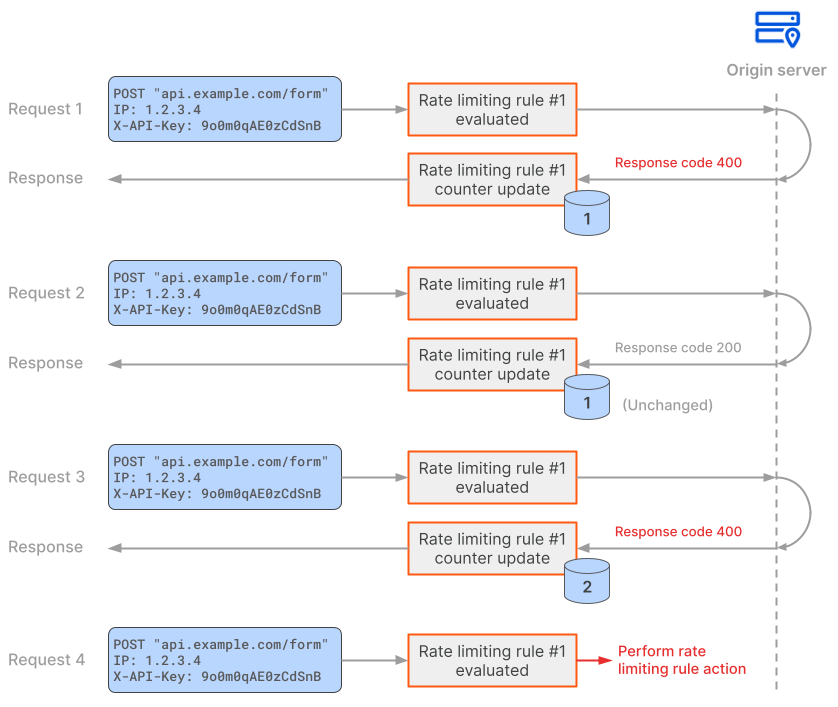
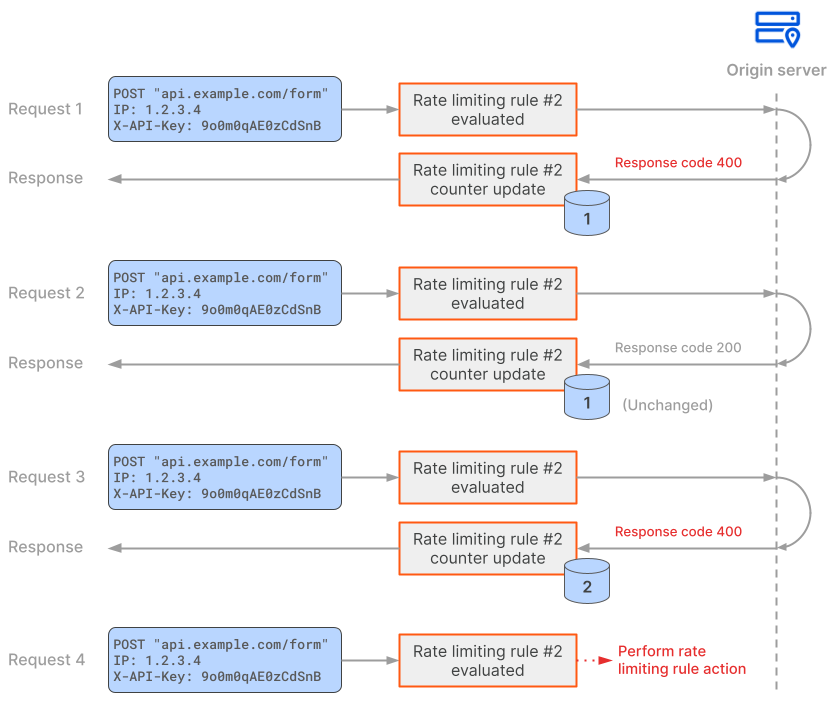
Adjust examples in request rate calc page

diff --git a/content/waf/rate-limiting-rules/request-rate.md b/content/waf/rate-limiting-rules/request-rate.md
@@ -71,7 +71,7 @@ Consider the following configuration for a rate limiting rule. The rule counting
 
 {{<example>}}
 
-_**Rate limiting rule #1**_
+_**Rate limiting rule #2**_
 
 **If incoming requests match**:<br/>
 `http.request.uri.path eq "/form"`
@@ -95,16 +95,14 @@ _**Rate limiting rule #1**_
 
 {{</example>}}
 
-The following diagram shows how Cloudflare handles four incoming requests received during a 10-second period in the context of the above rate limiting rule.
+The following diagram shows how Cloudflare handles these four incoming requests received during a 10-second period in the context of the above rate limiting rule.
 
 ![Example of a rate limiting rule using a response field in the counting expression](/waf/static/custom-rules/rate-limiting-example-response-field.png)
 
-All four requests have the same IP address and they all include the `X-API-Key` header. However, the rule includes a custom counting expression (defined in **Increment counter when**) specifying that the counter should increase when the response HTTP status code is `400`.
+Since request 1 matches the rule expression, the rate limiting rule is evaluated. The request is sent to the origin, skipping any cached content, because the rate limiting rule includes a response field (`http.response.code`) in the counting expression. The origin responds with a `400` status code. Since there is a match for the counting expression, Cloudflare creates a request counter for the values of the characteristics in the context of the rate limiting rule, and sets this counter to `1`.
 
-Since request 1 matches the rule expression, the rate limiting rule is evaluated. The request is sent to the origin, skipping any cached content, because the rate limiting rule includes a response field (`http.response.code`) in the counting expression — when this happens, the counter will only be updated when Cloudflare receives a response from the origin. The origin responds with a `400` status code. Since there is a match for the counting expression, Cloudflare updates the request counter for the values of the characteristics in the context of the rate limiting rule, setting the counter to `1`.
-
-Request 2 matches the rule expression and therefore Cloudflare evaluates the rate limiting rule. The request is still within the maximum number of requests defined in **Requests**. The origin responds with a `200` status code. Since the counting expression does not match for the current response, the counter remains with the value `1`.
+Request 2 matches the rule expression and therefore Cloudflare evaluates the rate limiting rule. The request counter for the characteristics values is still within the maximum number of requests defined in **Requests**. The origin responds with a `200` status code. Since the response does not match the counting expression, the counter is not incremented, keeping its value (`1`).
 
 Request 3 matches the rule expression and therefore Cloudflare evaluates the rate limiting rule. The request is still within the maximum number of requests defined in **Requests**. The origin responds with a `400` status code. There is a match for the counting expression, which sets the counter to `2`.
 
-Request 4 matches the rule expression and therefore Cloudflare evaluates the rate limiting rule. The request is no longer within the maximum number of requests defined in **Requests** (The counter has the value `2` and the maximum number of requests is `1`). Cloudflare applies the action defined in the rate limiting rule configuration, blocking request 4 and any later requests that match rate limiting rule #1 for ten minutes.
+Request 4 matches the rule expression and therefore Cloudflare evaluates the rate limiting rule. The request is no longer within the maximum number of requests defined in **Requests** (the counter has the value `2` and the maximum number of requests is `1`). Cloudflare applies the action defined in the rate limiting rule configuration, blocking request 4 and any later requests that match the rate limiting rule for ten minutes.
